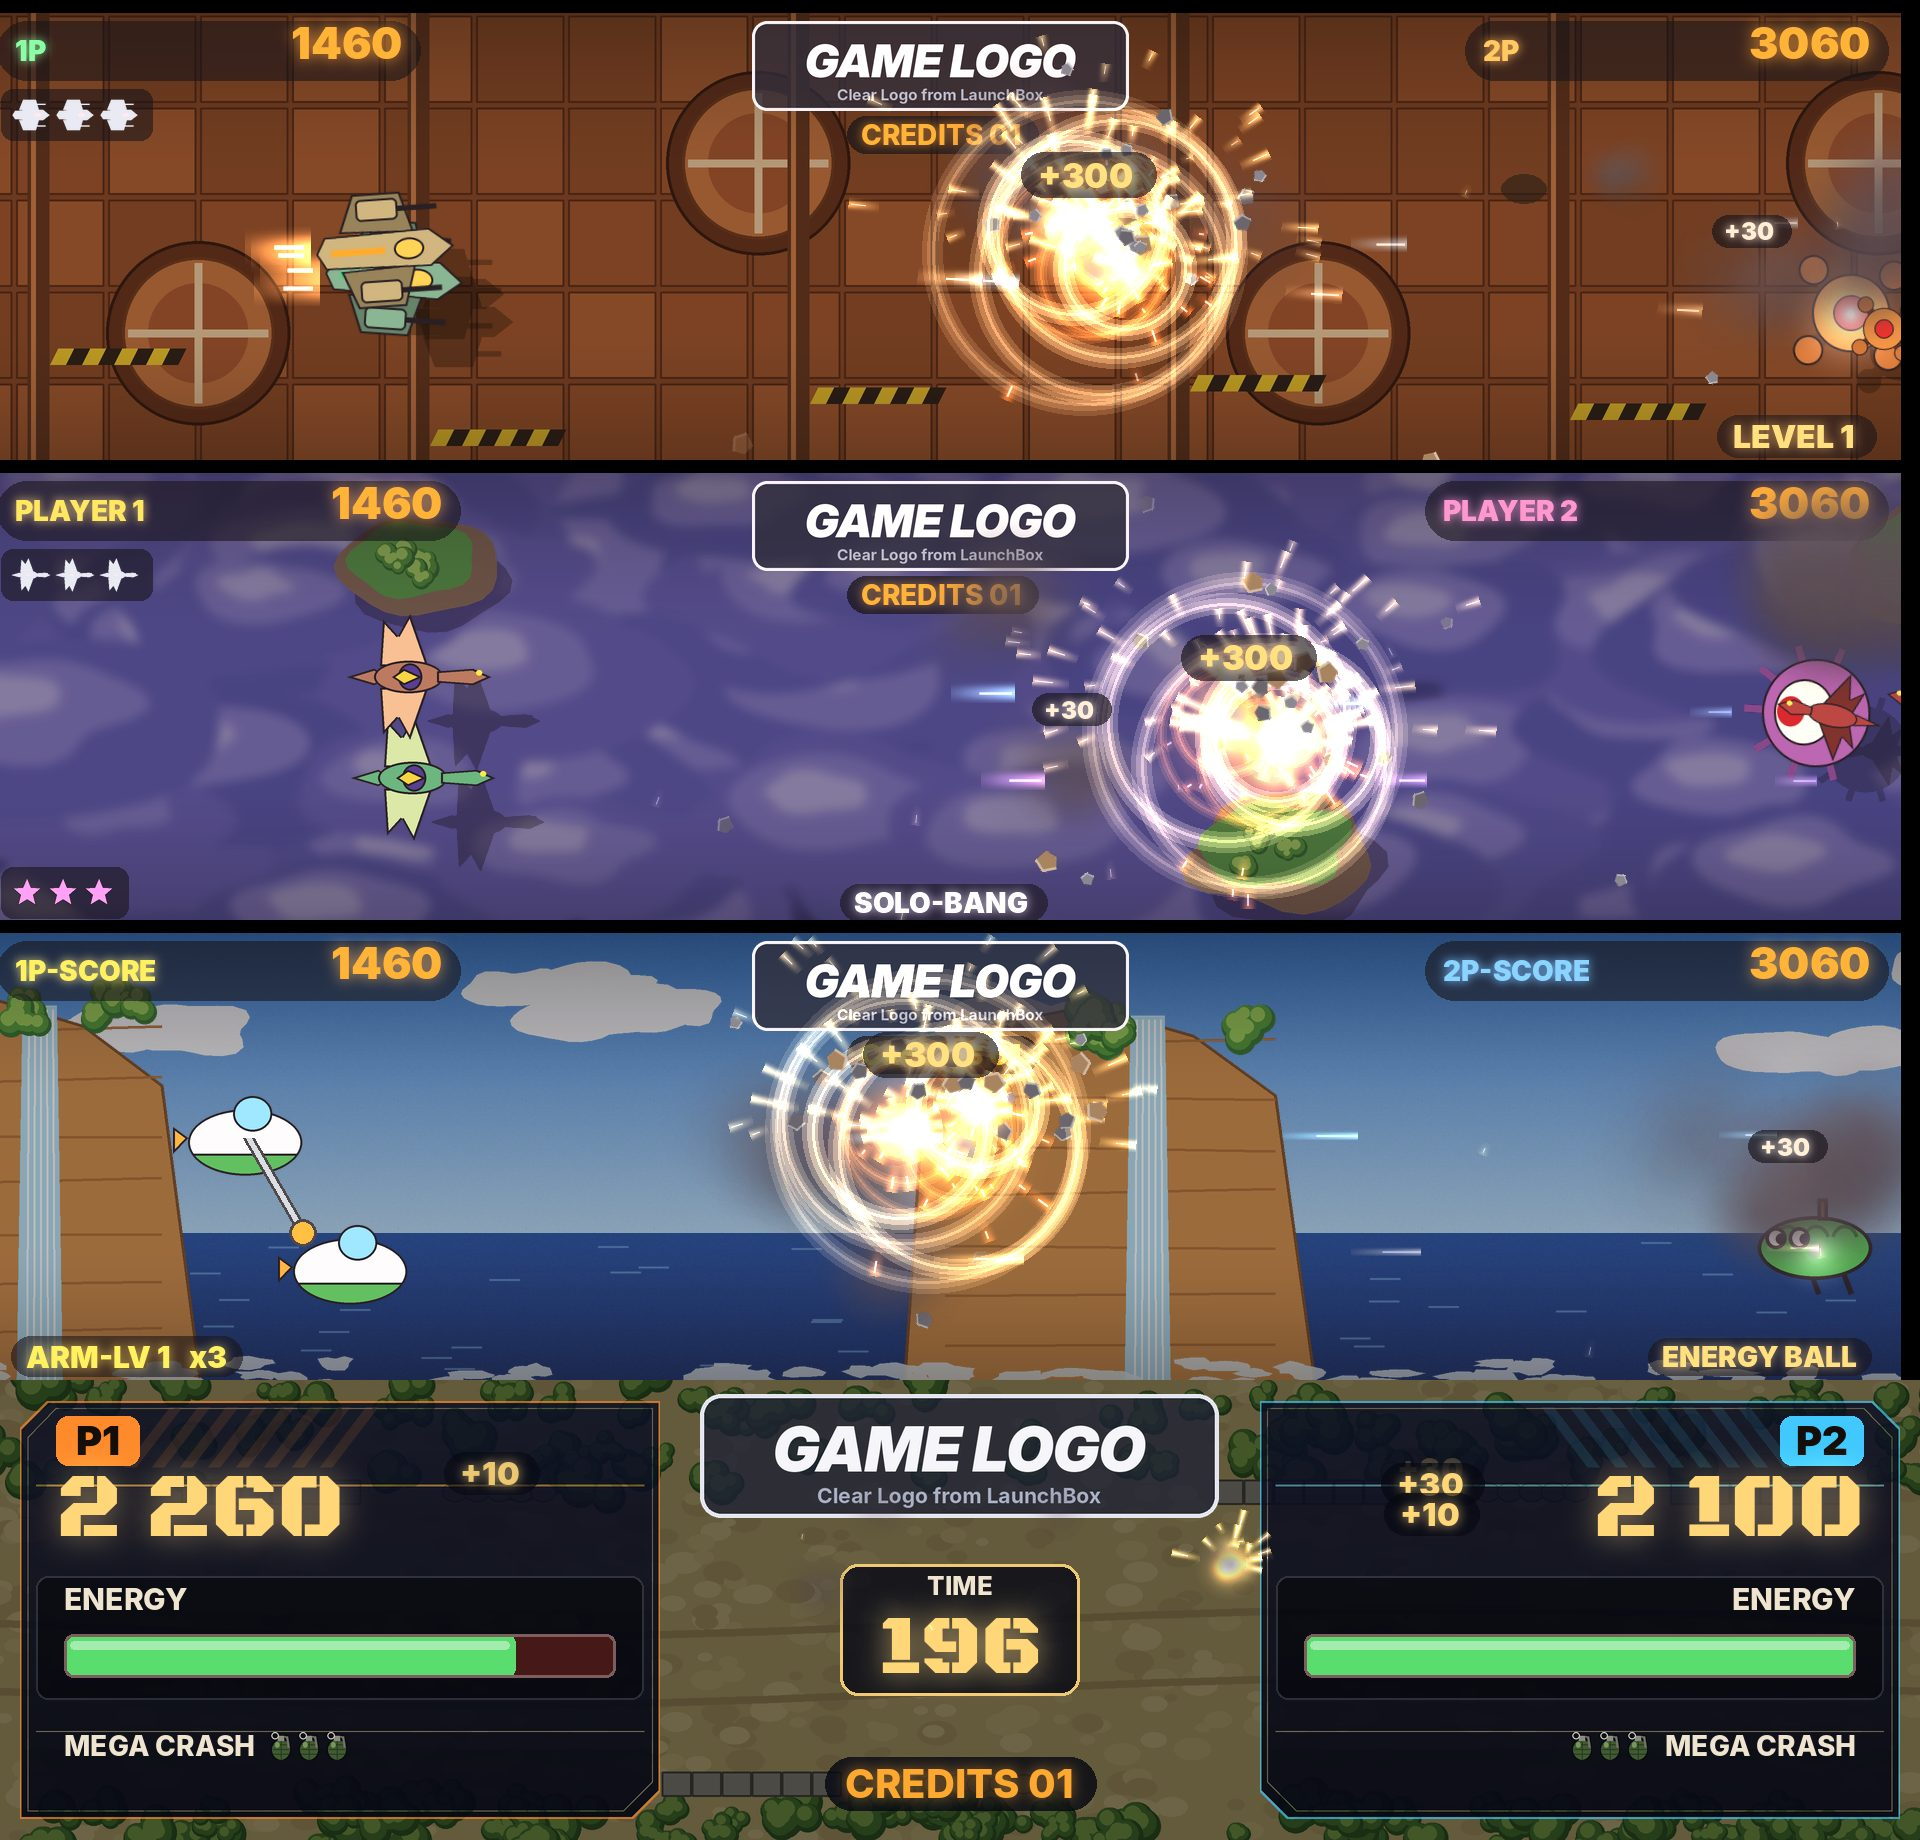
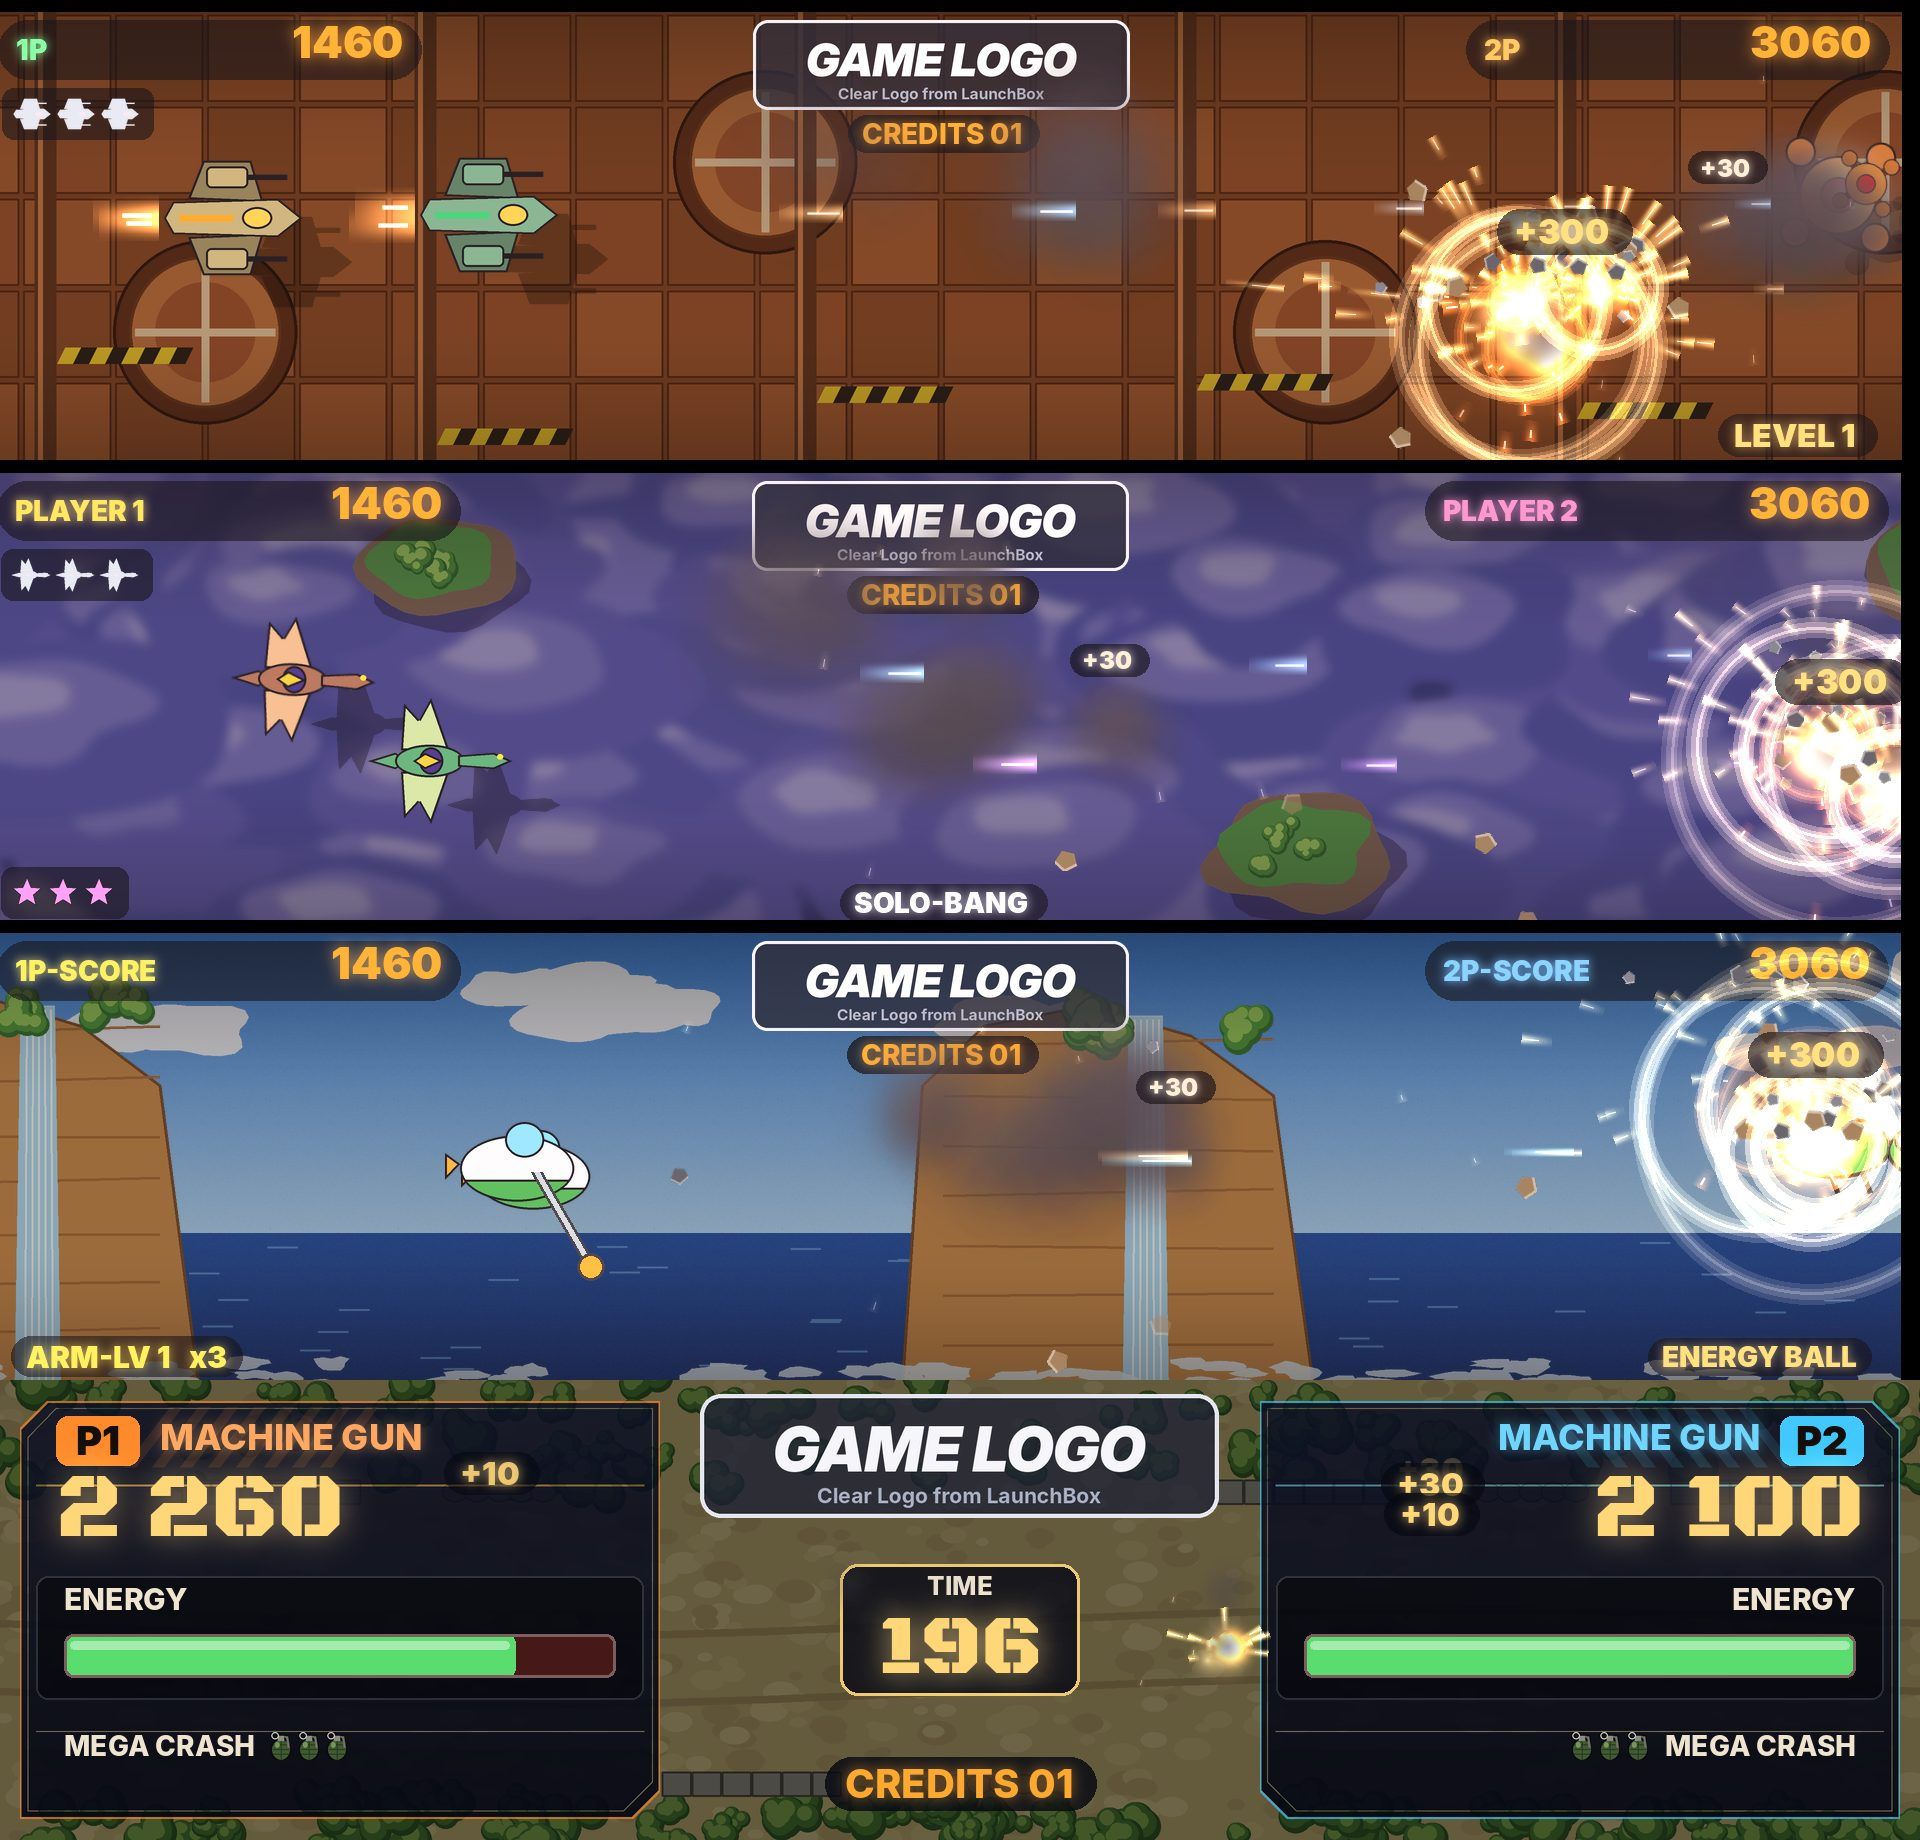
Mercs names the weapon of each player
RAM captures from a cabinet, typed with the weapon held, give it at
0xFF117E for player 1 and 0xFF122E for player 2 (0xB0 further, like the
energy and the mega crashes). 0 is the machine gun of the start, 1 the
spread gun, 2 the flamethrower. The HD screen names it next to the P1 and
P2 badges and pops it up when it is picked up, the 128x32 panel shows it
for a moment. The names are derived values of the game file, in French and
English, and a panel spec can now take its names from a pair of derived
values.

Claude-Session: https://claude.ai/code/session_01UHMmGB2iQAKSvNdTFigVJ4

diff --git a/dmd/hd_panels.py b/dmd/hd_panels.py
@@ -319,9 +319,15 @@ class PanelScene(GameScene):
                     if ch:
                         self.mark(side, "name", now)
             if spec.get("names"):
-                ch = self.changed(vals, "_p1_chr" if side == "p1" else "_p2_chr")
+                watch = spec.get("name_watch") or ("_p1_chr", "_p2_chr")
+                ch = self.changed(vals, watch[0] if side == "p1" else watch[1])
                 if ch:
                     self.mark(side, "name", now)
+                    n = self.name(side, vals) if spec.get("name_popup") else None
+                    if n:                                                    # a weapon picked up (Mercs) / une arme ramassée
+                        self.events["weapon"] += 1
+                        self.fx.glow(self.X(side, 200), self.S(60), 20, 140, ACCENT[side], 0.45, "front", 0.9, 0.0)
+                        self.popup(tr(f"{n} !", f"{n}!"), self.X(side, 320), self.S(250), _mix(ACCENT[side], WHITE, 0.3), 36)
         if spec.get("floor"):
             ch = self.changed(vals, "floor")
             if ch:
@@ -459,7 +465,8 @@ class PanelScene(GameScene):
         / Le nom montré dans le panneau : le personnage lu dans le jeu, le compagnon, le héros, ou rien."""
         spec = self.SPEC
         if spec.get("names"):
-            n = vals.get("p1_char" if side == "p1" else "p2_char")
+            keys = spec["names"] if isinstance(spec["names"], tuple) else ("p1_char", "p2_char")   # Mercs: its weapons
+            n = vals.get(keys[0] if side == "p1" else keys[1])
             if n:
                 return str(n)
         if side == "p1":
@@ -792,7 +799,8 @@ SPECS = {
     "mpang": dict(theme="pg_peak", hit="balloon", balloons=True),
     # run and gun
     "mercs": dict(theme="mc_desert", hit="gun", gauge=_g(("ÉNERGIE", "ENERGY"), (90, 220, 110), (70, 24, 24)),
-                  bombs=dict(label=("MÉGA ATTAQUE", "MEGA CRASH"))),
+                  bombs=dict(label=("MÉGA ATTAQUE", "MEGA CRASH")),
+                  names=("p1_weapon", "p2_weapon"), name_watch=("weapon", "weapon_p2"), name_popup=True),   # the weapon held / l'arme
 }
 
 

diff --git a/README.fr.md b/README.fr.md
@@ -805,7 +805,7 @@ Comme les jeux Neo Geo, les autres jeux Capcom ont reçu une scène de dalle et 
 | Mars Matrix | `mmatrix.json` | le score ou le titre, les vaisseaux qui restent, le vaisseau qui vole et tire, POWER UP | une base mécanique couleur rouille vue du ciel comme dans le jeu, des aires rondes, des tuyaux et des bandes jaunes et noires. Notre chasseur mécanique contre les drones de guerre orange. 1P et le score, les vaisseaux qui restent, LEVEL à droite |
 | Dimahoo | `dimahoo.json` | le score ou le titre, les vies et les bombes magiques, la bête qui vole et tire | un ciel magique de nuages violets vu d'en haut comme dans le jeu, des rochers flottants. Notre magicien sur sa bête volante contre des petits dragons et de grosses bêtes-yeux, une bombe magique lance des anneaux de lumière. PLAYER 1 et le score, les vies, les bombes en étoiles, le héros choisi |
 | Eco Fighters | `ecofghtr.json` | le score ou le titre, les vaisseaux qui restent, la capsule qui vole et tire, POWER UP, l'arme | notre petite capsule écologique et son bras-canon qui tourne au-dessus d'une mer bleu vif comme dans le jeu, des falaises ocre et leur cascade, des robots pollueurs dans leurs carapaces vertes. 1P-SCORE et le score, ARM-LV et les vaisseaux qui restent, l'arme du bras |
-| Mercs | `mercs.json` | le score ou le titre, l'énergie, le temps, les méga attaques, notre mercenaire qui court et tire | panneaux sur une piste de sable à travers le désert. ÉNERGIE en vert, le score, les MÉGA ATTAQUE, TIME, des tirs. Une méga attaque de l'un ou l'autre joueur (lue dans le jeu) part de son panneau et le milieu explose |
+| Mercs | `mercs.json` | le score ou le titre, l'énergie, le temps, les méga attaques, le nom de l'arme ramassée, notre mercenaire qui court et tire | panneaux sur une piste de sable à travers le désert. ÉNERGIE en vert, le score, les MÉGA ATTAQUE, TIME, des tirs. Une méga attaque de l'un ou l'autre joueur (lue dans le jeu) part de son panneau et le milieu explose. L'arme de chaque joueur est nommée à côté de son badge (mitrailleuse, tir triple, lance-flammes), et son nom surgit quand il la ramasse |
 | Ghouls'n Ghosts | `ghouls.json` | le score ou le titre, les vies | panneaux sur le lieu des exécutions sous l'orage. L'arme que le jeu dit que le chevalier tient (lance, dague, torche, épée, hache) et son armure (argent, or, ARMURE PERDUE !), les vies, le score. Chaque point lance l'arme vers le milieu |
 | Strider | `strider.json` | le score ou le titre, les vies | un seul panneau sur la ville du premier niveau la nuit et ses dômes dorés (on joue chacun son tour). Les vies, le score, les ROBOTS D'APPUI, des entailles de lumière |
 | Pang! 3 | `pang3.json` | le score ou le titre, les vies | panneaux sur le mur peint d'un temple en Égypte. Les vies, le score. De gros ballons rebondissent au milieu, les points lus dans le jeu en font éclater un qui se coupe en deux |

diff --git a/CHANGELOG.md b/CHANGELOG.md
@@ -40,7 +40,7 @@ La version la plus récente en premier. Chaque version est en anglais, puis en f
 
 **Also**
 - Player 2 shows in the Capcom shoot'em ups when his values move, his score that goes up, a life or a bomb spent, a hit taken. He stayed on PRESS START, these games have no BIOS that tells who plays. Giga Wing also reads the bombs and the power of player 2, and its score and credits learned on a cabinet. The credits show under the logo during a game.
-- Mercs reads its timer whole, three digits where only the last one was read (TIME 7), the score of both players learned on a cabinet, and the mega crashes of player 2, which leave his panel too. FinalBurn Neo sets it for three players, the README tells how to set it for two (DIP switches).
+- Mercs reads its timer whole, three digits where only the last one was read (TIME 7), the score of both players learned on a cabinet, the mega crashes of player 2, which leave his panel too, and the weapon of each player, named next to his badge (machine gun, spread gun, flamethrower). FinalBurn Neo sets it for three players, the README tells how to set it for two (DIP switches).
 - The HD screen gave the Metal Slug scene to Marvel Super Heroes and Magic Sword, their names start like Metal Slug's. Only the Metal Slug games get it now.
 
 **Updating from 1.29.3**
@@ -81,7 +81,7 @@ Extract the new zip over the old folder (`config.json`, your learned addresses a
 
 **Aussi**
 - Le joueur 2 apparaît dans les shoot'em up Capcom quand ses valeurs bougent, son score qui monte, une vie ou une bombe en moins, un coup reçu. Il restait sur PRESS START, ces jeux n'ont pas de BIOS qui dit qui joue. Giga Wing lit aussi les bombes et la puissance du joueur 2, et son score et ses crédits appris sur une borne. Les crédits s'affichent sous le logo pendant la partie.
-- Mercs lit son chrono en entier, trois chiffres dont seul le dernier était lu (TIME 7), le score des deux joueurs appris sur une borne, et les méga attaques du joueur 2, qui partent aussi de son panneau. FinalBurn Neo le règle pour trois joueurs, le README dit comment le régler pour deux (DIP switches).
+- Mercs lit son chrono en entier, trois chiffres dont seul le dernier était lu (TIME 7), le score des deux joueurs appris sur une borne, les méga attaques du joueur 2, qui partent aussi de son panneau, et l'arme de chaque joueur, nommée à côté de son badge (mitrailleuse, tir triple, lance-flammes). FinalBurn Neo le règle pour trois joueurs, le README dit comment le régler pour deux (DIP switches).
 - L'écran HD donnait la scène de Metal Slug à Marvel Super Heroes et à Magic Sword, leur nom commence comme celui de Metal Slug. Seuls les Metal Slug l'ont maintenant.
 
 **Mettre à jour depuis la 1.29.3**

diff --git a/README.md b/README.md
@@ -805,7 +805,7 @@ Like the Neo Geo games, the other Capcom games got a panel scene and an animated
 | Mars Matrix | `mmatrix.json` | the score or the title, the ships left, the ship that flies and fires, POWER UP | a rust-red mechanical base seen from the sky as in the game, round pads, pipes and warning stripes. Our mech fighter against orange war drones. 1P and the score, the ships left, LEVEL at the right |
 | Dimahoo | `dimahoo.json` | the score or the title, the lives and the magic bombs, the beast that flies and fires | a magic sky of violet clouds seen from above as in the game, floating rocks. Our wizard on his flying beast against little dragons and big eye beasts, a magic bomb sends rings of light. PLAYER 1 and the score, the lives, the bombs as stars, the hero chosen |
 | Eco Fighters | `ecofghtr.json` | the score or the title, the ships left, the pod that flies and fires, POWER UP, the weapon | our little ecological pod and its turning gun arm over a bright sea as in the game, ochre cliffs and their waterfall, polluting robots in green shells. 1P-SCORE and the score, ARM-LV and the ships left, the weapon of the arm |
-| Mercs | `mercs.json` | the score or the title, the energy, the time, the mega crashes, our mercenary who runs and fires | panels on a sandy track across the desert. ENERGY in green, the score, the MEGA CRASH, TIME, shots. A mega crash of either player (read in the game) flies from his panel and the middle blows up |
+| Mercs | `mercs.json` | the score or the title, the energy, the time, the mega crashes, the name of the weapon picked up, our mercenary who runs and fires | panels on a sandy track across the desert. ENERGY in green, the score, the MEGA CRASH, TIME, shots. A mega crash of either player (read in the game) flies from his panel and the middle blows up. The weapon each player holds is named next to his badge (machine gun, spread gun, flamethrower), and its name pops up when he picks it up |
 | Ghouls'n Ghosts | `ghouls.json` | the score or the title, the lives | panels on the place of the executions under the storm. The weapon the game says the knight holds (lance, dagger, torch, sword, axe) and his armour (silver, gold, ARMOUR LOST!), the lives, the score. Each point throws the weapon to the middle |
 | Strider | `strider.json` | the score or the title, the lives | one panel on the city of the first stage at night and its golden domes (the players take turns). The lives, the score, the OPTION ROBOTS, slashes of light |
 | Pang! 3 | `pang3.json` | the score or the title, the lives | panels on the painted wall of a temple in Egypt. The lives, the score. Big balloons bounce in the middle, the points read in the game burst one and it splits in two |
